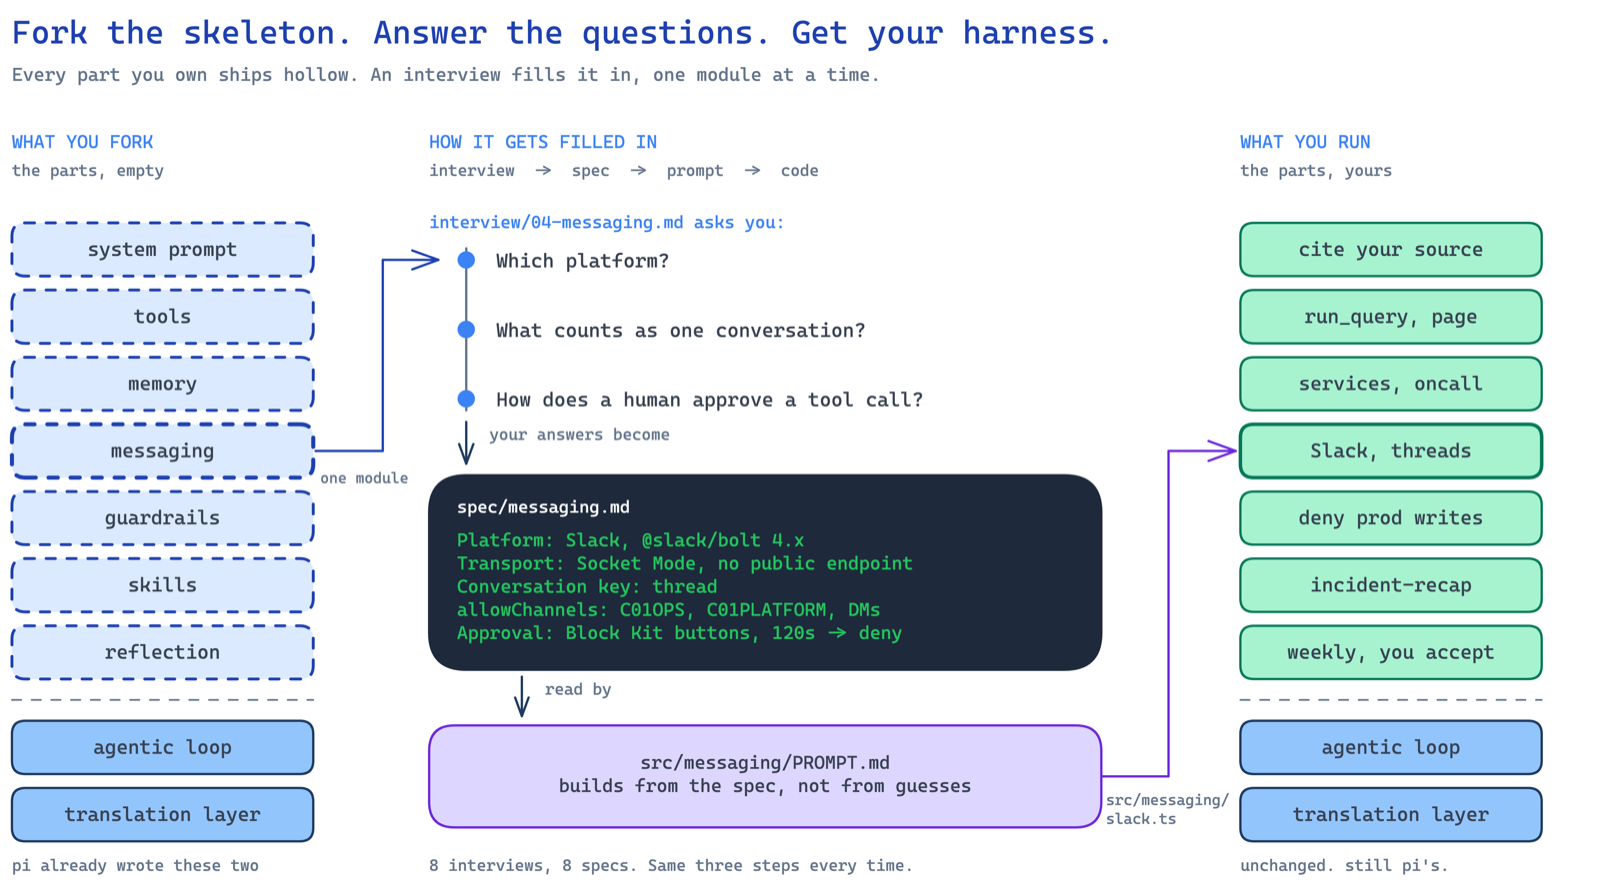
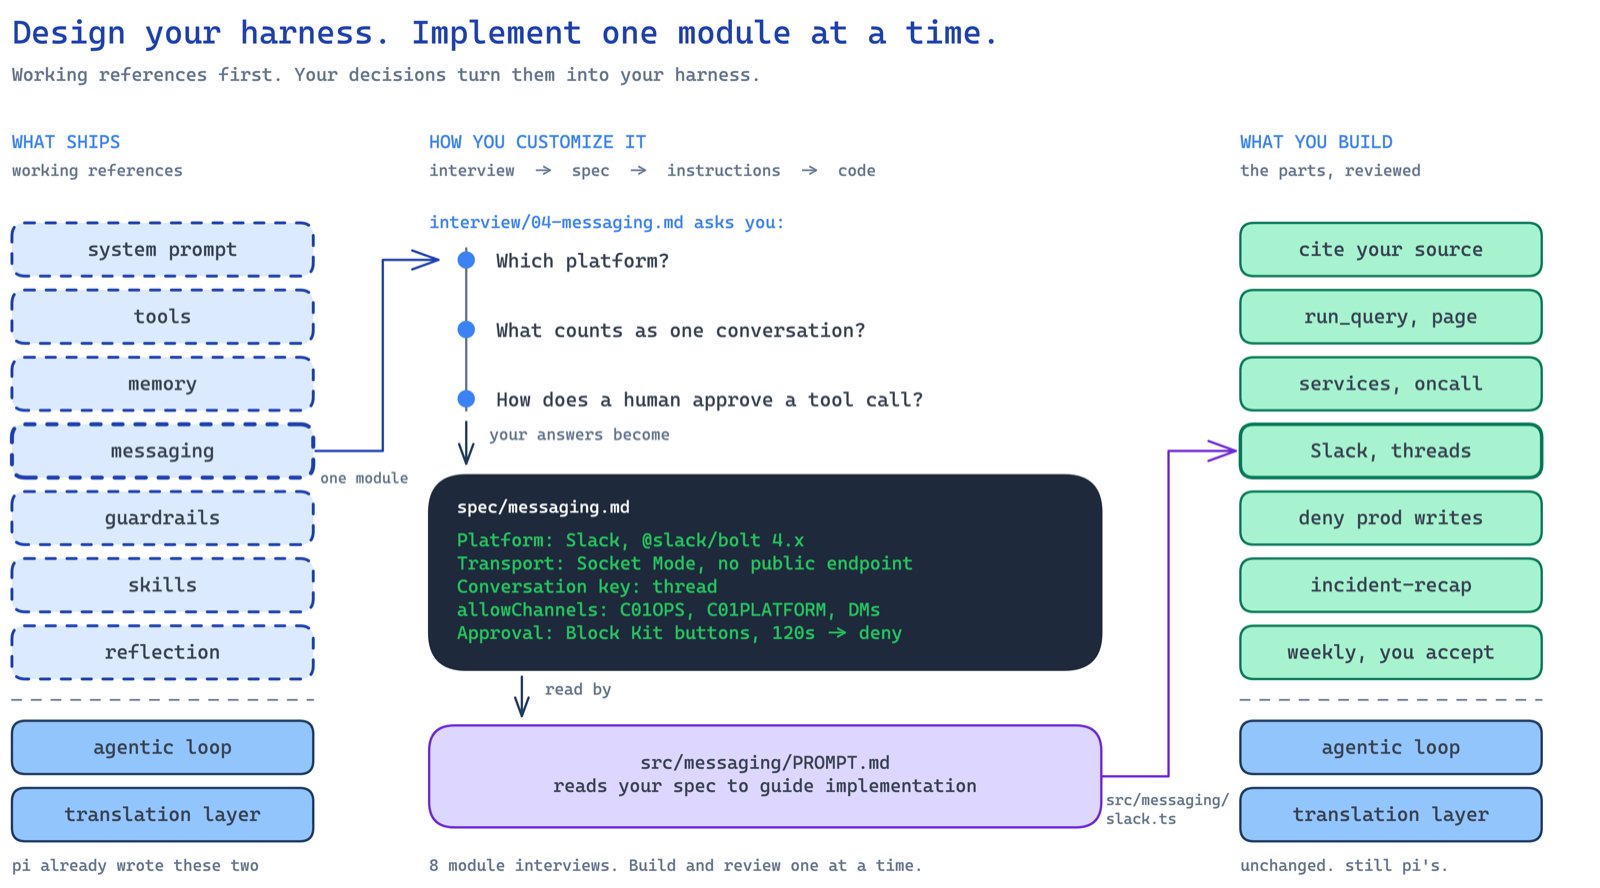
Clarify harness setup and production boundaries

diff --git a/README.md b/README.md
@@ -4,133 +4,220 @@
 
 # harness
 
-**Build your own agent harness. Four questions, and it is yours.**
+**A small TypeScript skeleton for designing your own agent harness.**
 
 [![license](https://img.shields.io/badge/license-MIT-black?style=flat-square)](LICENSE)
 [![built on pi](https://img.shields.io/badge/built%20on-pi-6b46c1?style=flat-square)](https://github.com/badlogic/pi-mono)
 [![Claude Code plugin](https://img.shields.io/badge/Claude%20Code-plugin-d97757?style=flat-square)](https://docs.claude.com/en/docs/claude-code)
 [![TypeScript](https://img.shields.io/badge/TypeScript-3178c6?style=flat-square&logo=typescript&logoColor=white)](package.json)
-[![status](https://img.shields.io/badge/status-early-orange?style=flat-square)](#what-this-does-not-do-yet)
+[![status](https://img.shields.io/badge/status-early-orange?style=flat-square)](#current-limitations)
 
 </div>
 
-A harness is the software your model runs inside: the thing that decides what the
-model sees, what it can do, and when it stops. This is a working one, small enough
-to read in an afternoon, with an interview and a build prompt behind every part
-you are meant to replace.
+A harness is the software your model runs inside: the part that decides what the
+model sees, what it can do, which actions are allowed, and when work stops.
 
-Companion to [How can I build a Harness?](https://navnav221.github.io/learn/harness/)
+## What this is
 
-![The skeleton and your harness are the same nine parts. On the left they ship hollow: system prompt, tools, memory, messaging, guardrails, skills, reflection, plus the agentic loop and translation layer that pi already wrote. In the middle, interview/04-messaging.md asks you which platform, what counts as one conversation, and how a human approves a tool call; your answers become spec/messaging.md, which src/messaging/PROMPT.md reads to build the adapter. On the right the same nine parts, now filled in with your own answers.](docs/harness.png)
+This repository is a working local reference implementation and a process for
+replacing its defaults with your own decisions. An interview produces a spec,
+implementation instructions read that spec, and you review the resulting code
+one module at a time.
 
-## Start
+## What this is not
 
-```
-/plugin marketplace add NAVNAV221/harness
-/plugin install harness
-/harness:init
-```
+This is not a finished production service. The four-question setup creates an
+initial specification and personalized scaffold, not a complete harness for your
+team.
 
-Four questions, and the harness is yours: your job in the system prompt, your
-worst case as a real rule in the guardrail policy, your capabilities drafted into
-a spec. No clone, no npm, no API key to get that far.
+It is also not the internal AI Harness teammate described in [What it took to
+turn a coding agent into an R&D
+teammate](https://navnav221.github.io/learn/harness/). This separate, generic
+repository is informed by lessons from building that system, without representing
+its production implementation.
+
+![A harness skeleton being customized one module at a time: an interview records your decisions in a spec, implementation instructions read that spec, and the resulting code becomes your harness.](docs/harness.png)
+
+## Choose a path
+
+### Learn how a harness works
+
+You do not need Claude Code or the plugin. Clone the repository and read the
+working reference implementations:
 
 ```bash
-npm install && npm start     # when you want to watch it run
-npm test                     # 63 tests over memory, guardrails and reflection
+git clone https://github.com/NAVNAV221/harness.git
+cd harness
+npm install
+npm test
 ```
 
-## What that gets you
-
-**It enforces rules in code, not in the prompt.**
-
-```
-you> use bash to run: rm -rf /tmp/scratch
-
-  ! guardrail: destructive or outward-facing shell command - approval required
-    bash: {"command":"rm -rf /tmp/scratch"}
-    approve? [y/N] n
-
-harness> That command was declined - it wasn't run.
-```
-
-**It does not claim capabilities it does not have.**
-
-```
-you> why did request abc123 fail at 09:14?
-
-harness> I can't investigate that yet: `query_traces` and `query_logs` do not
-         exist, so I can't determine its failure cause.
-         Run `/harness:build-tools` to build them.
-```
-
-**It tells you what to build next, from what you actually asked for.**
-
-```
-$ cat reflection/proposals/2026-08-30T21-18-32.md
-
-## capability gaps
-- query_traces: wanted 1 time. "why did request abc123 fail at 09:14?"
-- gh_pr_read:   wanted 1 time. "just review PR 412 for me"
-```
-
-Every block above is real output, not a mockup.
-
-## Make it yours
-
-Generic prompts produce generic code. So the build prompts do not guess: they read
-a spec that you produced by being interviewed.
-
-```
-interview/04-messaging.md  ->  spec/messaging.md  ->  src/messaging/PROMPT.md  ->  code
-questions it asks you          your answers            reads your answers
-```
-
-`/harness:init` asks four of those questions. The rest arrive one module at a time:
-
-```
-/harness:status                  what is specified, what is built, what is default
-/harness:interview messaging     the full questions for one module
-/harness:build-messaging slack   implement it, from your spec
-```
-
-`/plugin update` improves the questions you get asked. It never touches the code
-you own.
-
-Not in Claude Code? Clone the repo and paste `interview/00-harness.md` into your
-agent. These are markdown instructions to an agent, not a Claude Code format.
-
-## What pi owns
-
-[pi](https://github.com/badlogic/pi-mono) owns the agentic loop and the translation
-layer. You own everything else. You should still write both yourself once:
+No model credential is required to read the code or run the tests. To watch the
+educational loop call a model, configure a credential and run:
 
 ```bash
 npm run learn:loop "what does this harness do?"
 ```
 
-`learn/` is a loop with all six exit conditions named, and one interface with two
-provider adapters behind it. It is there to be read, not to run in production.
+Start with:
 
-## What this does not do yet
+1. [`src/harness.ts`](src/harness.ts) - all nine parts wired together.
+2. [`learn/loop.ts`](learn/loop.ts) - the agentic loop with its exit conditions.
+3. [`src/guardrails/policy.ts`](src/guardrails/policy.ts) - rules enforced in code.
+4. [`src/memory/index.ts`](src/memory/index.ts) - stored knowledge, search, and visible truncation.
+5. [`src/reflection/`](src/reflection/) - session lessons proposed for human review.
 
-- **One messaging adapter exists: the CLI.** Slack, Mattermost and Discord are a
-  prompt and an interface, not an implementation. `/harness:build-messaging` writes
-  yours.
-- **`learn/`'s provider adapters have never run against a live API.** They compile
-  and they are there to be read.
-- **Reflection proposes, it never applies.** Memory changes need
-  `npm run reflect:accept <id> --apply`; prompt and skill changes are yours to make
-  by hand, on purpose.
-- **The shipped `Dockerfile` is not deployable on its own.** The CLI adapter reads
-  stdin, so a deployed harness needs a real messaging adapter first.
-  `/harness:interview deployment` says so before it asks you anything else.
+The test suite currently has 67 tests covering guardrails, memory, configuration,
+and reflection.
+
+### Design your own with Claude Code
+
+The plugin asks four initial questions, writes the first spec, and scaffolds a
+personalized copy into your working directory:
+
+```text
+/plugin marketplace add NAVNAV221/harness
+/plugin install harness
+/harness:init
+```
+
+The questions establish:
+
+1. The one job the harness should do.
+2. Who talks to it and where.
+3. The worst thing it could do by accident.
+4. The first three capabilities it needs.
+
+The result knows its purpose and boundaries, but it will explicitly mark missing
+capabilities as not built. Add one module at a time:
+
+```text
+/harness:status                  # specified, built, and still default
+/harness:interview messaging     # turn your decisions into a module spec
+/harness:build-messaging slack   # implement from that spec
+```
+
+`/plugin update` may improve the interviews. It never modifies the scaffolded
+code you own.
+
+### Use another agent or work manually
+
+The interviews and implementation instructions are plain Markdown. Clone the
+repository, read [`interview/00-harness.md`](interview/00-harness.md), and record
+your answers under `spec/`. You can implement directly from those specs or give
+the relevant interview and implementation files to Codex, pi, or another coding
+agent.
+
+The code, tests, and design questions remain useful even if you do not run any
+of the prompts.
+
+## The nine harness decisions
+
+| Part | Question it answers | Implementation |
+|---|---|---|
+| **System prompt** | How should the model behave during the session? | [`src/system-prompt/`](src/system-prompt/) |
+| **Tools** | What actions can it take? | [`src/tools/`](src/tools/) |
+| **Agentic loop** | How does work continue and stop? | pi, with a readable version in [`learn/loop.ts`](learn/loop.ts) |
+| **Translation layer** | How are model providers normalized? | pi, with examples in [`learn/providers/`](learn/providers/) |
+| **Memory** | What is stored, retrieved, and allowed into context? | [`src/memory/`](src/memory/) |
+| **Messaging** | Where does collaboration happen, and what is a conversation? | [`src/messaging/`](src/messaging/) |
+| **Skills** | How does the team perform a repeatable task? | [`skills/`](skills/) |
+| **Guardrails** | What is enforced regardless of model behavior? | [`src/guardrails/`](src/guardrails/) |
+| **Reflection** | How do reviewed lessons survive sessions? | [`src/reflection/`](src/reflection/) |
+
+A tool and a skill are deliberately different. A `query_traces` tool gives the
+model access to telemetry. An `investigate_failed_request` skill defines the
+team's sequence for using traces, logs, and metrics to produce a root-cause
+hypothesis. A guardrail then decides whether any resulting action is allowed.
+
+See [`docs/five-parts.md`](docs/five-parts.md) for the core anatomy and where each
+part lives.
+
+## How customization works
+
+Generic instructions produce generic code. This repository records your
+constraints before implementation:
+
+```text
+interview/04-messaging.md  ->  spec/messaging.md  ->  src/messaging/PROMPT.md  ->  reviewed code
+questions for you              your decisions         reads the spec             yours
+```
+
+The reference implementation is intentionally small enough to replace. The spec
+is the contract. The implementation instructions must read it instead of
+guessing what platform, permissions, conversation boundaries, or approval flow
+you need.
+
+## What works today
+
+- A CLI messaging adapter and one in-memory agent session per conversation.
+- pi's agentic loop and model-provider support.
+- Filesystem memory with entities, transcripts, search, and visible truncation.
+- Tool-call denial and approval, sender and channel admission, rate limiting, and
+  outbound secret redaction.
+- Skills loaded with progressive disclosure.
+- Session reflection that proposes changes for human review.
+- Tests for the shipped guardrails, memory, configuration, and reflection.
+
+Run it locally after configuring a model credential in `.env` or through pi's
+`~/.pi/agent/auth.json`:
+
+```bash
+cp .env.example .env
+npm install
+npm start
+```
+
+One quick way to see the harness boundary is to ask it to run a destructive shell
+command. The shipped policy pauses destructive and outward-facing commands for
+human approval instead of relying on the system prompt.
+
+## Security before deployment
+
+The shipped policy is a local example, not a production security boundary.
+Notably, it starts with:
+
+```typescript
+allowFrom: ["*"],
+allowChannels: ["*"],
+```
+
+Before connecting a shared messaging adapter or exposing the harness to other
+users:
+
+- Restrict senders and channels.
+- Bind every message, memory read, and action to an authenticated identity.
+- Isolate memory between teams and users.
+- Replace the example deny and approval rules with policies for your environment.
+- Reduce the enabled tools and sandbox their side effects.
+- Store credentials and memory outside the container image.
+- Add evaluations for authorization, data leakage, and approval behavior.
+
+A prompt asks the model to follow a rule. A guardrail must enforce it when the
+model does not.
+
+## Current limitations
+
+- **Only the CLI messaging adapter is implemented.** Slack, Mattermost, and
+  Discord have an interface and implementation instructions, not shipped
+  adapters.
+- **The adapters under `learn/providers/` are educational.** They compile but
+  have not run against live APIs. Production provider support comes from pi.
+- **Reflection never applies prompt or skill changes automatically.** Memory
+  changes require `npm run reflect:accept <id> --apply`; all other proposals are
+  reviewed and implemented by hand.
+- **The Dockerfile is not deployable by itself.** A deployed harness needs a real
+  messaging adapter, persistent storage, credentials, authorization, and an
+  appropriate sandbox.
+- **The default guardrail policy is not safe for a shared deployment.** It allows
+  every sender and channel until you configure it.
 
 ## More
 
-- [docs/five-parts.md](docs/five-parts.md) - each part, and where it lives here
-- [interview/README.md](interview/README.md) - why the interview exists at all
-- [A Smart Model Doesn't Make Up for Bad Context](https://navnav221.github.io/2026-06-21-smart-model-bad-context/) - why the memory module matters most
-- [How can I build a Harness?](https://navnav221.github.io/learn/harness/), on [navnav221.github.io](https://navnav221.github.io/)
+- [The nine-part case study](https://navnav221.github.io/learn/harness/)
+- [`docs/five-parts.md`](docs/five-parts.md) - the core anatomy mapped to this repository
+- [`interview/README.md`](interview/README.md) - how interviews become specs
+- [A smart model doesn't make up for bad context](https://navnav221.github.io/2026-06-21-smart-model-bad-context/)
+- [pi](https://github.com/badlogic/pi-mono)
 
-MIT.
+MIT. See [LICENSE](LICENSE).

diff --git a/docs/five-parts.md b/docs/five-parts.md
@@ -1,14 +1,14 @@
-# The five parts, mapped to this repo
+# The nine harness parts, mapped to this repo
 
-From [How can I build a Harness?](https://navnav221.github.io/learn/harness/).
+From [What it took to turn a coding agent into an R&D teammate](https://navnav221.github.io/learn/harness/).
 An agent is a model, a harness, and an environment it can act on. The model is
 not yours to build. The environment is where the effects happen. The harness is
 the part you own.
 
 ## 1. System prompt
 
-Instructions injected on every single turn. First-day instructions for a new
-hire, not documentation.
+Instructions that define the model's behavior for the session. Think of them as
+first-day instructions for a new hire, not documentation.
 
 - Static rules: `src/system-prompt/SYSTEM_PROMPT.md`
 - Per-turn assembly: `buildSystemPrompt()` in `src/system-prompt/index.ts`
@@ -66,10 +66,10 @@ proposal is accepted.
 
 Interview: `interview/03-memory.md`. Build prompt: `src/memory/PROMPT.md`.
 
-## Beyond the five
+## The four production additions
 
-These are not in the article. They are what a harness needs the moment it stops
-being a demo.
+The five core parts make an agent run. These four become necessary when it
+serves a team instead of one private session.
 
 **Messaging** (`src/messaging/`) - the seam between a harness and the place your
 team already is. One interface, one working CLI implementation, a prompt for
